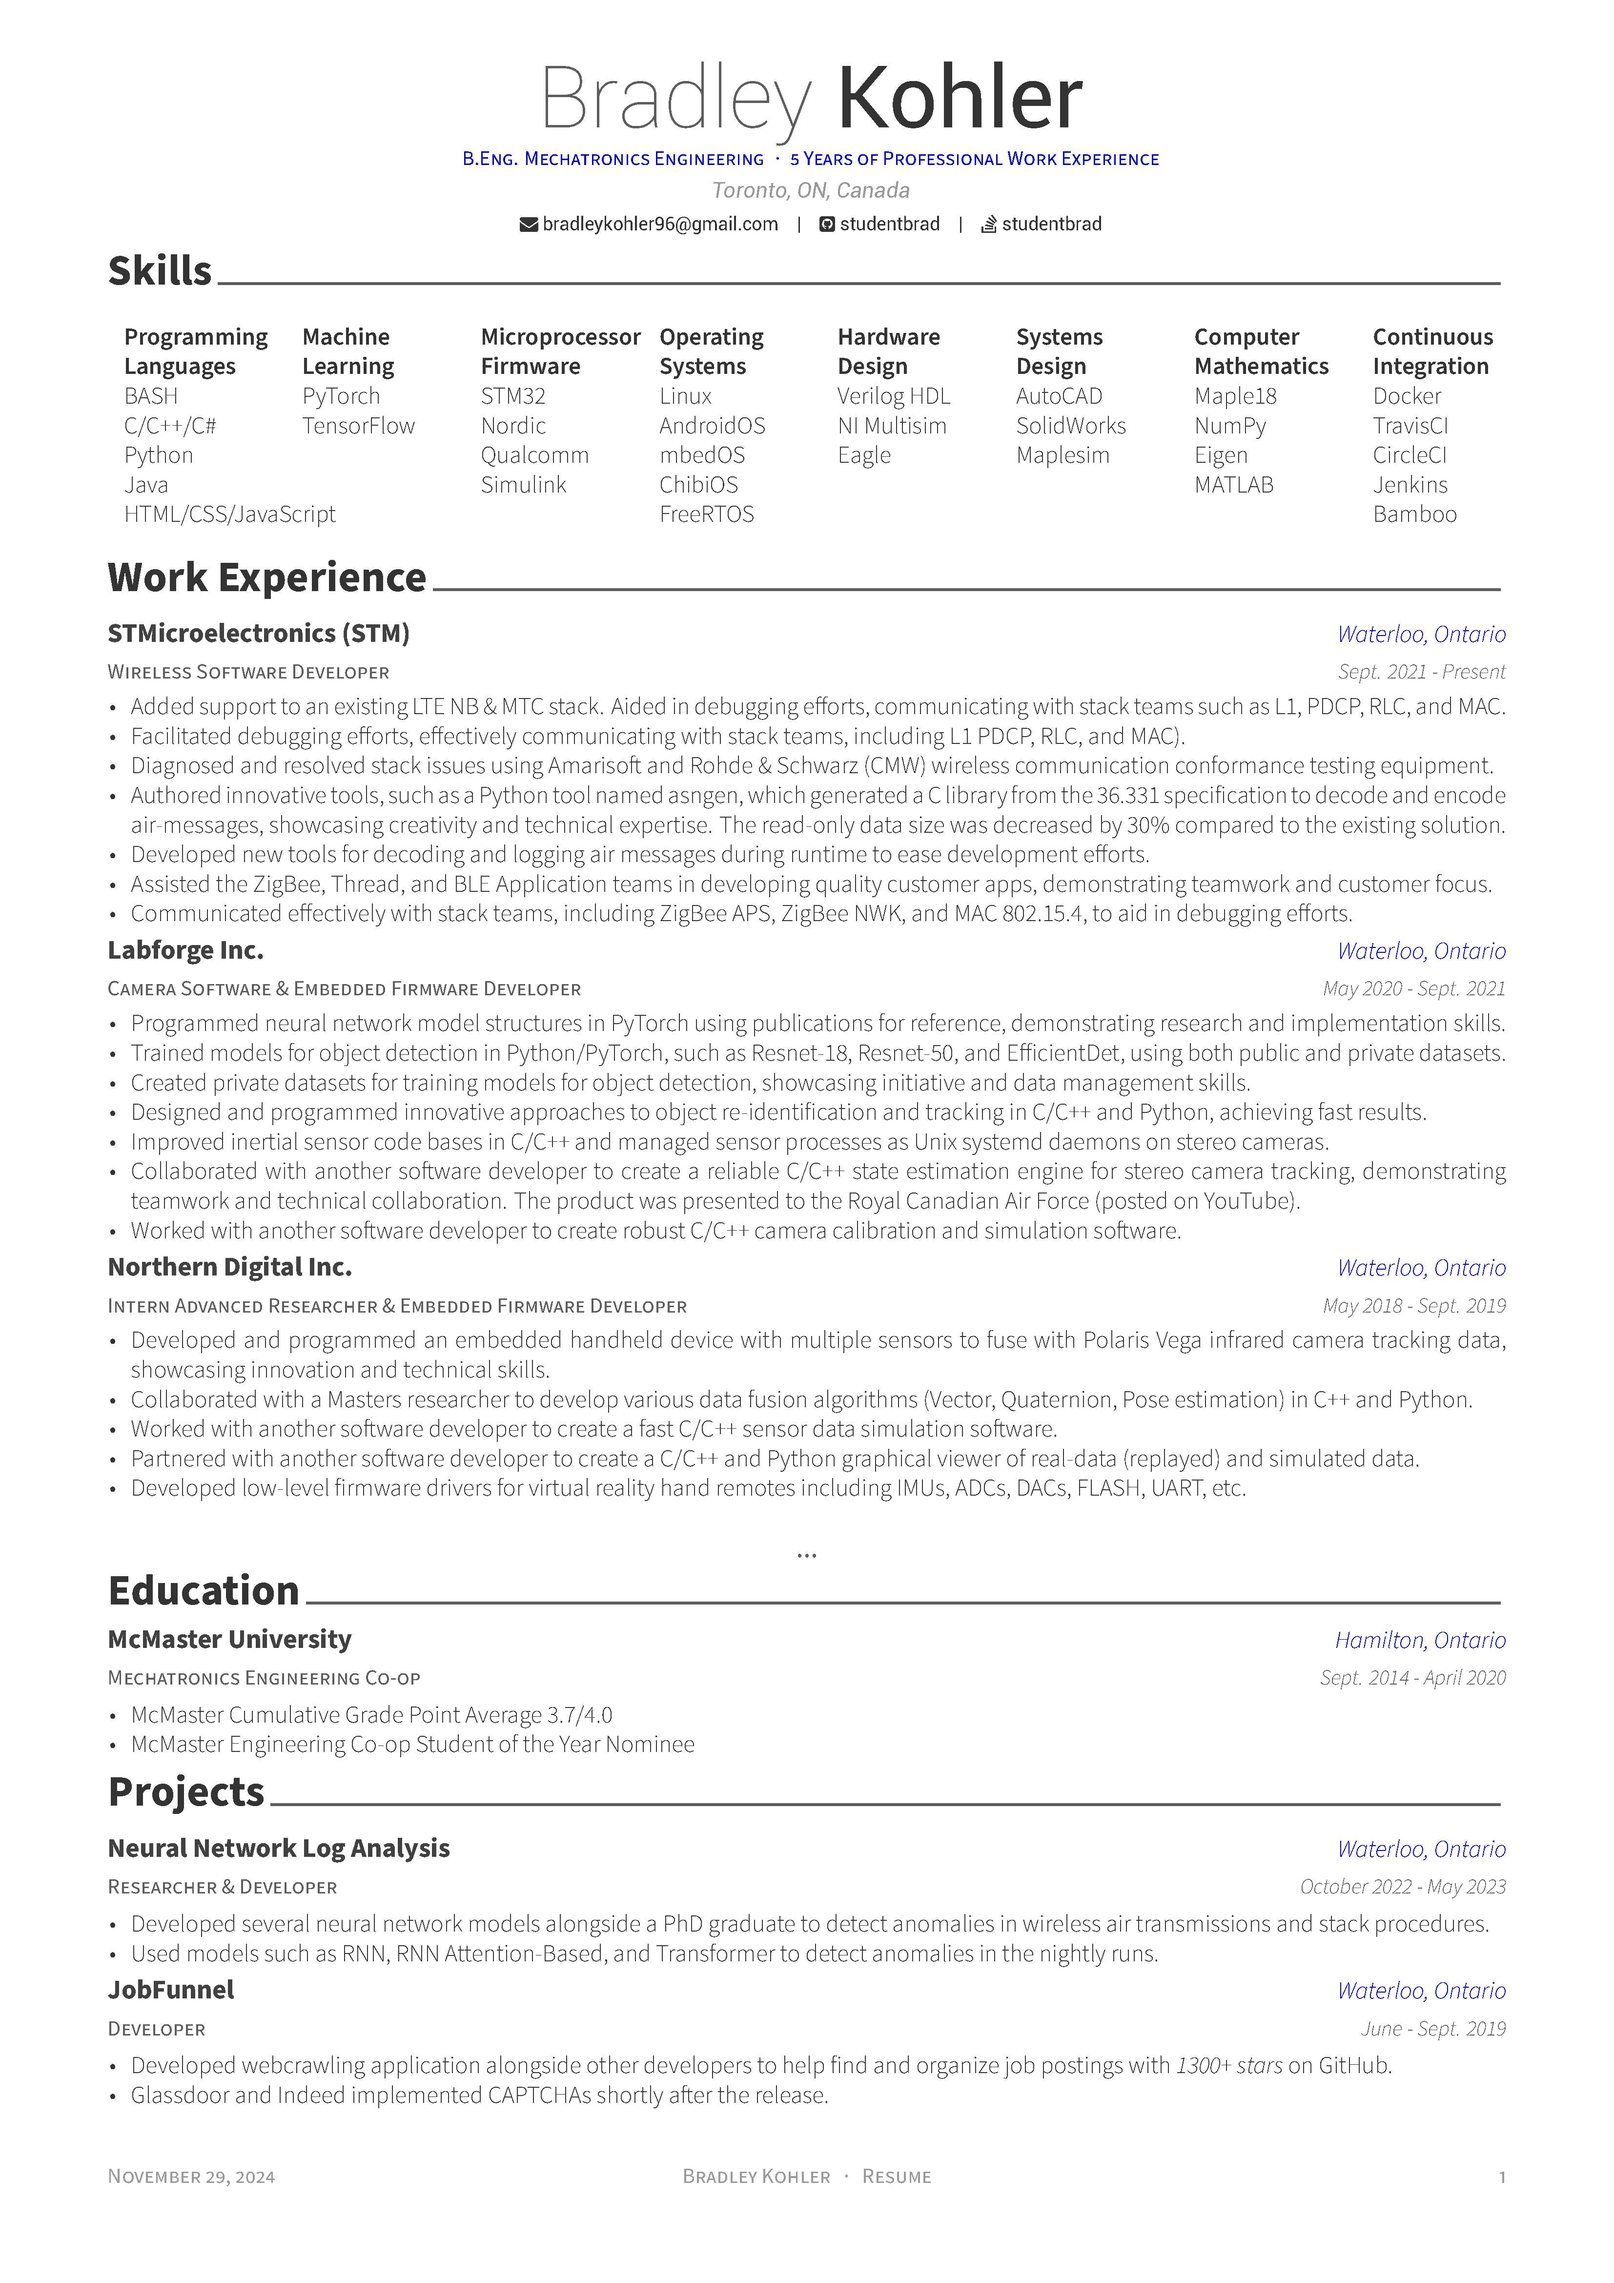
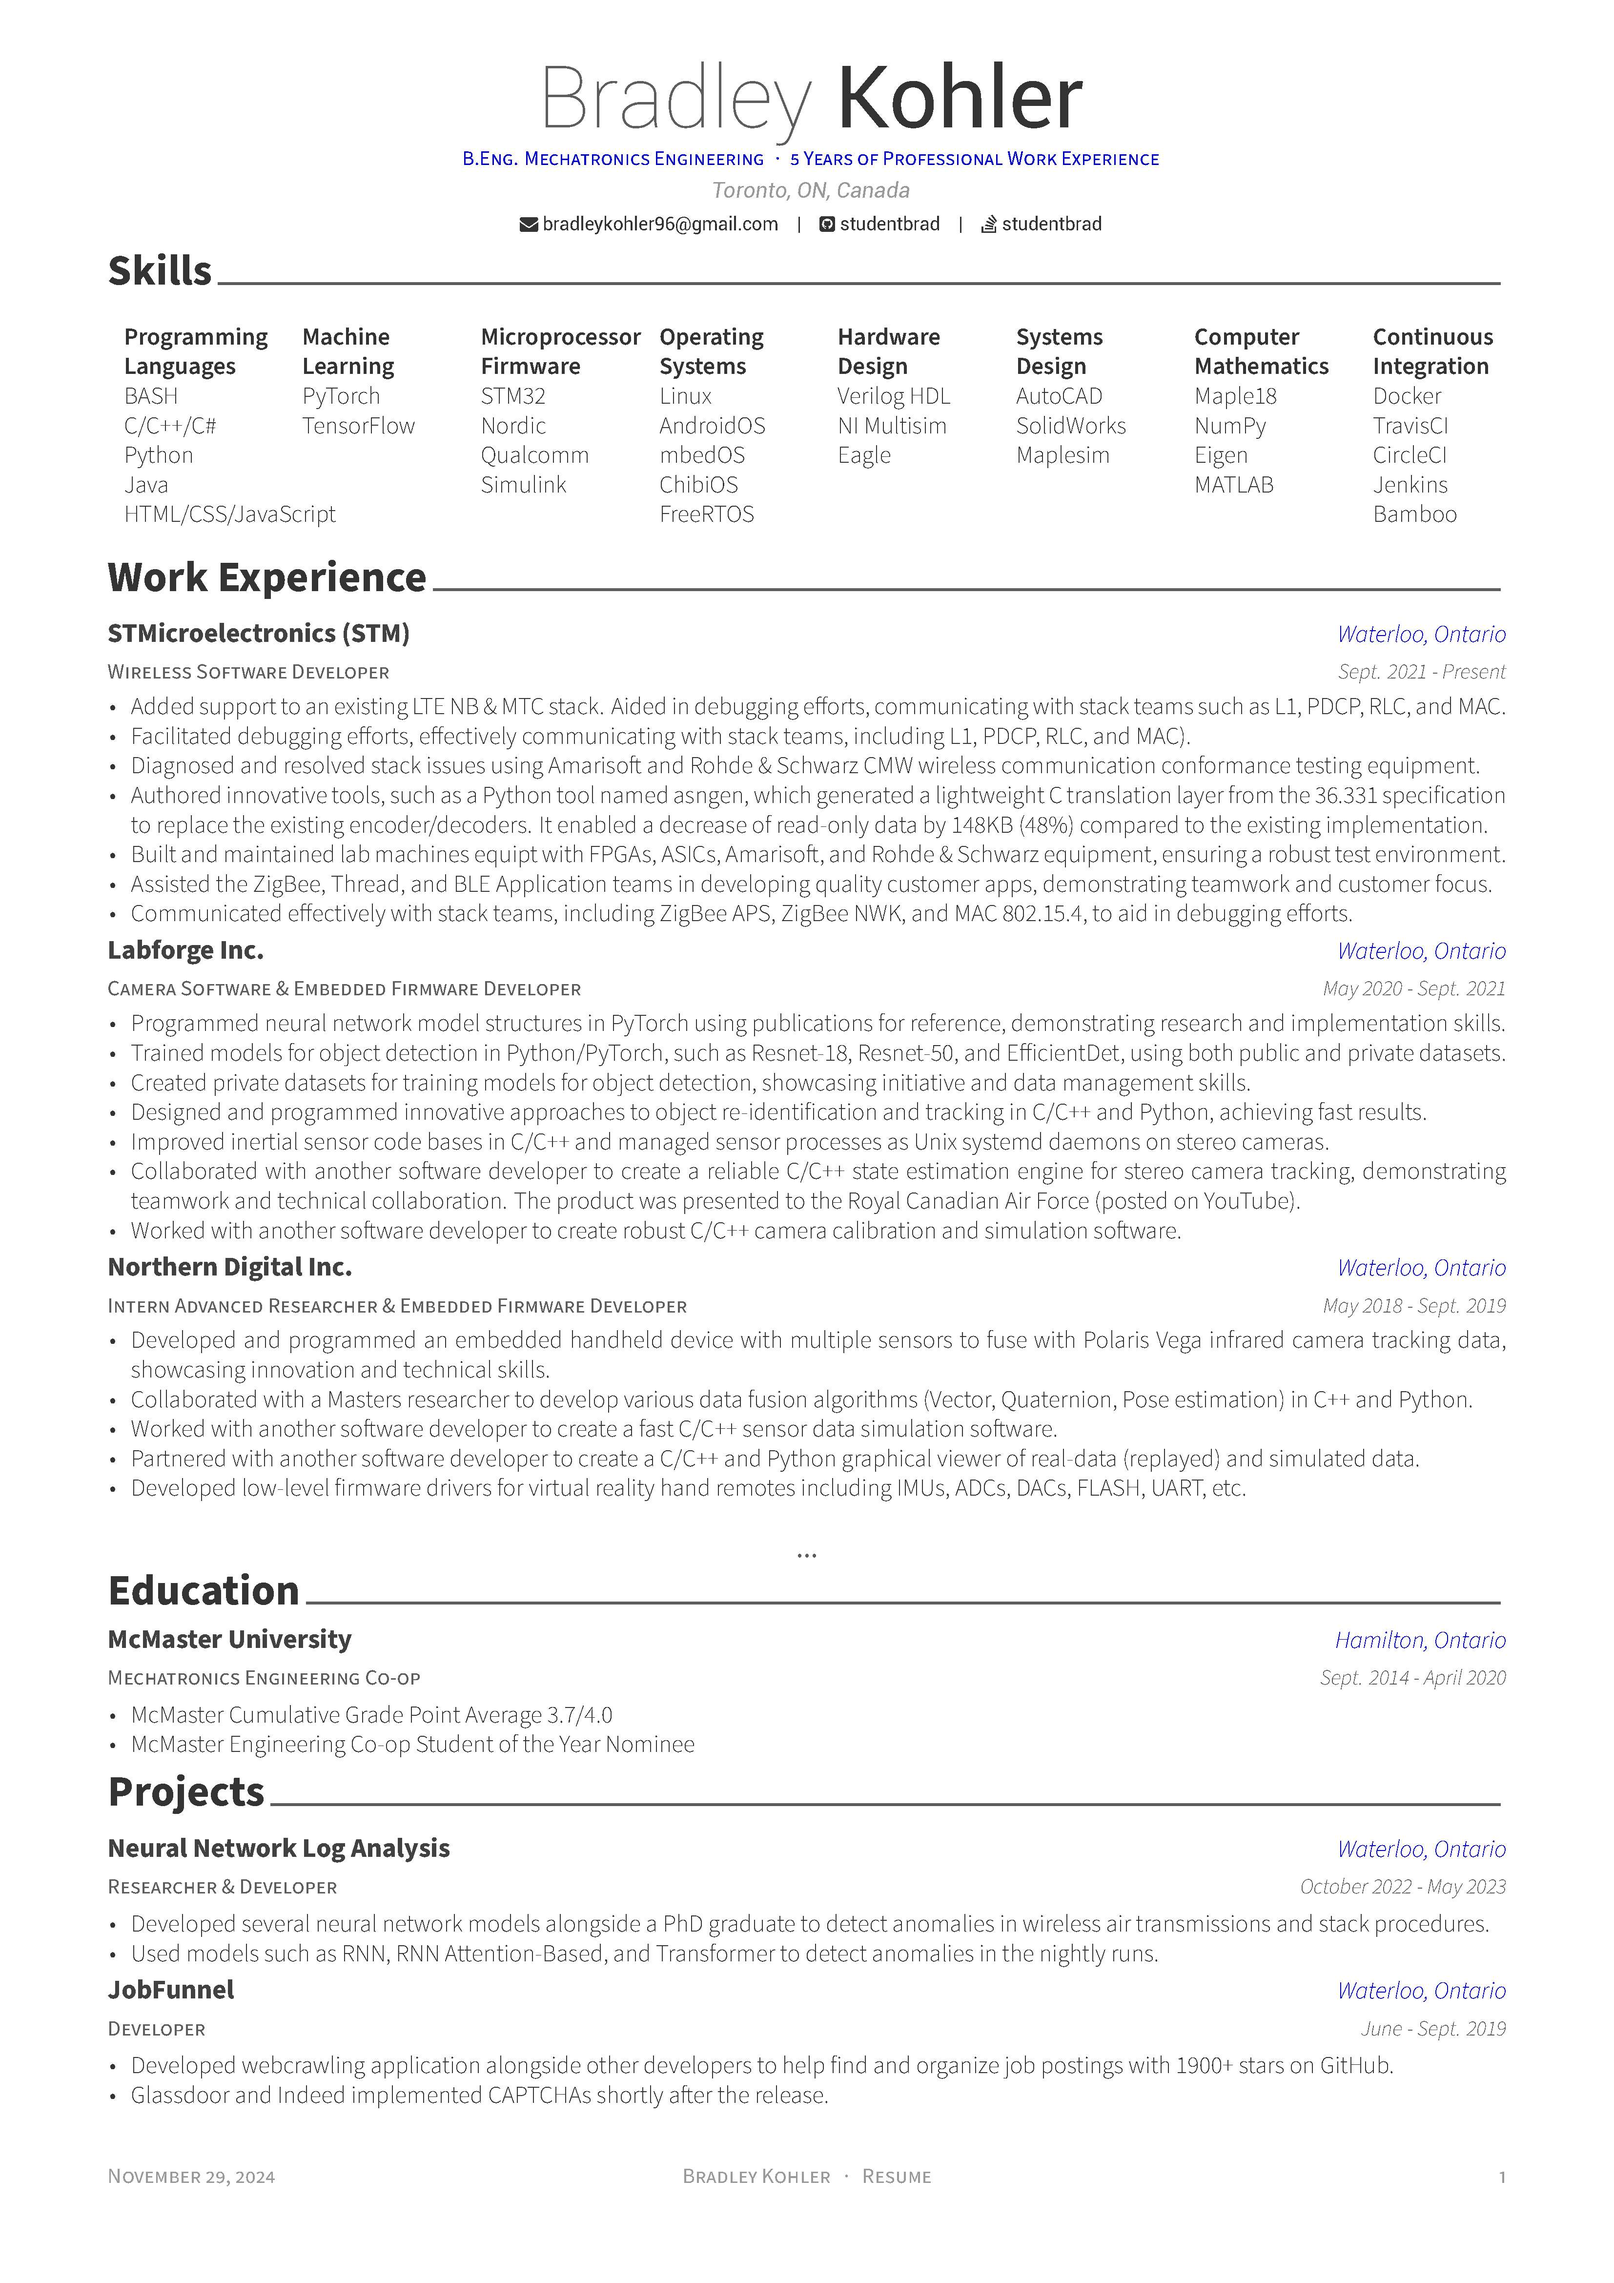
Update asngen description as well as number of github stars on JobFunnel

Changed region(s): [[0.1246, 0.3122, 0.9344, 0.3746]]

diff --git a/personal_resume/experience.tex b/personal_resume/experience.tex
@@ -17,11 +17,10 @@
     {
       \begin{cvitems} % Description(s) of tasks/responsibilities
         \item {Added support to an existing LTE NB \& MTC stack. Aided in debugging efforts, communicating with stack teams such as L1, PDCP, RLC, and MAC.}
-        \item {Facilitated debugging efforts, effectively communicating with stack teams, including L1 PDCP, RLC, and MAC).}
-        \item {Diagnosed and resolved stack issues using Amarisoft and Rohde \& Schwarz (CMW) wireless communication conformance testing equipment.}
-        \item {Authored innovative tools, such as a Python tool named asngen, which generated a C library from the 36.331 specification to decode and encode air-messages, showcasing creativity and technical expertise. The read-only data size was decreased by 30\% compared to the existing solution.}
-        \item {Developed new tools for decoding and logging air messages during runtime to ease development efforts.}
-        % \item {Built and maintained lab machines equipt with FPGA, ASIC, Linux, Windows, Amarisoft, and CMW equipment, ensuring a robust test env.}
+        \item {Facilitated debugging efforts, effectively communicating with stack teams, including L1, PDCP, RLC, and MAC).}
+        \item {Diagnosed and resolved stack issues using Amarisoft and Rohde \& Schwarz CMW wireless communication conformance testing equipment.}
+        \item {Authored innovative tools, such as a Python tool named asngen, which generated a lightweight C translation layer from the 36.331 specification to replace the existing encoder/decoders. It enabled a decrease of read-only data by 148KB (48\%) compared to the existing implementation.}
+        \item {Built and maintained lab machines equipt with FPGAs, ASICs, Amarisoft, and Rohde \& Schwarz equipment, ensuring a robust test environment.}
         \item {Assisted the ZigBee, Thread, and BLE Application teams in developing quality customer apps, demonstrating teamwork and customer focus.}
         \item {Communicated effectively with stack teams, including ZigBee APS, ZigBee NWK, and MAC 802.15.4, to aid in debugging efforts.}
         % \item {Generated and presented solutions to a larger group of developers, contributing to continuous quality improvements.}

diff --git a/personal_resume/projects.tex b/personal_resume/projects.tex
@@ -67,7 +67,7 @@
   {June - Sept. 2019} % Date(s)
   {
     \begin{cvitems} % Description(s) of experience/contributions/knowledge
-      \item {Developed webcrawling application alongside other developers to help find and organize job postings with \textit{1300+ stars} on GitHub.}
+      \item {Developed webcrawling application alongside other developers to help find and organize job postings with 1900+ stars on GitHub.}
       \item {Glassdoor and Indeed implemented CAPTCHAs shortly after the release. }
     \end{cvitems}
   }
